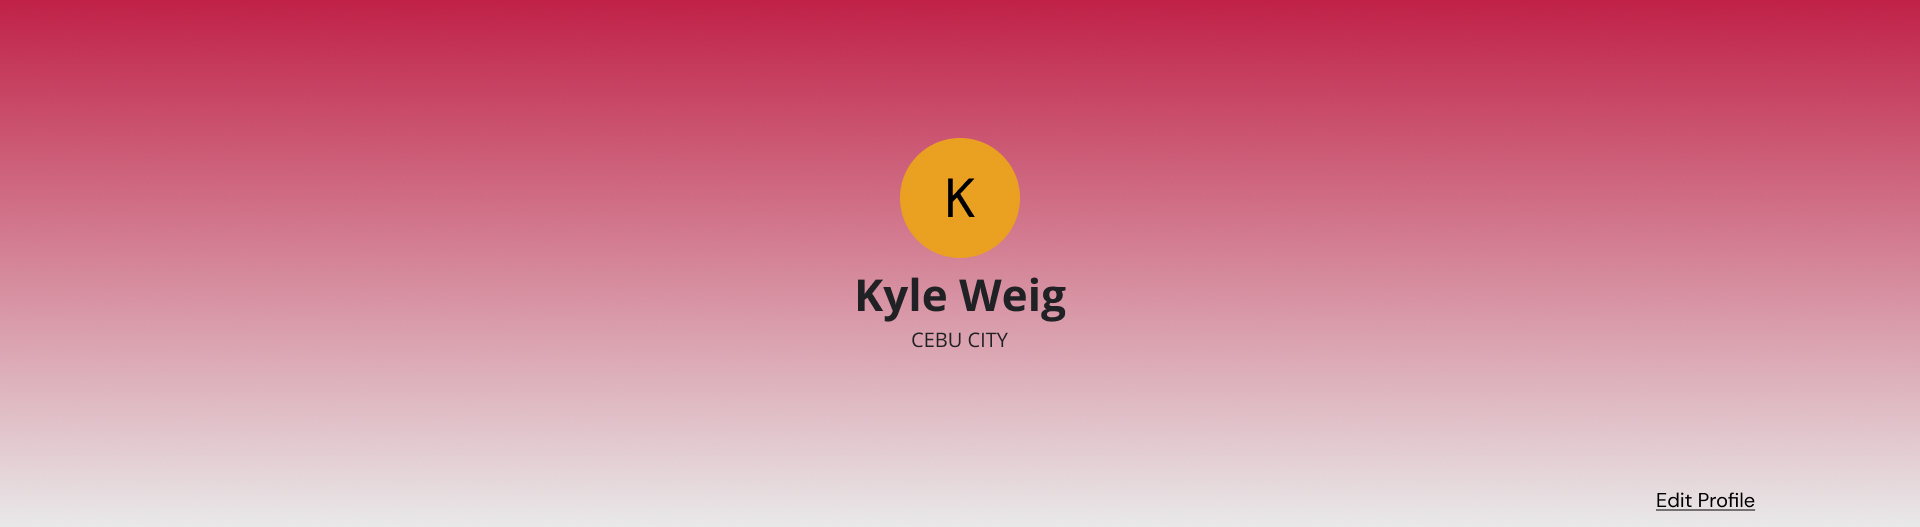
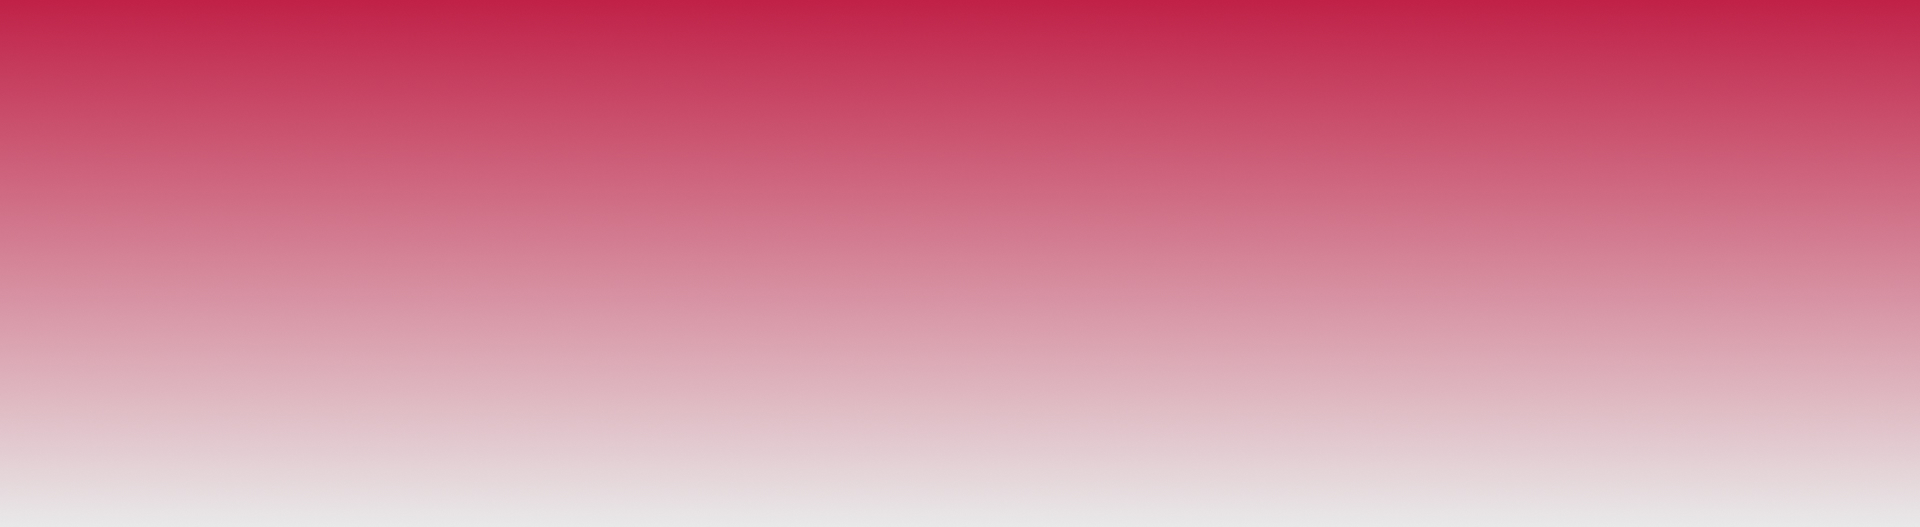
update something

diff --git a/src/User/UserProfile.js b/src/User/UserProfile.js
@@ -2,25 +2,41 @@ import React from 'react'
 import Container from '@mui/material/Container';
 import ResponsiveAppBar from '../Components/header';
 import Avatar from '@mui/material/Avatar';
+import { Button, Grid } from '@mui/material';
 
 export default function UserProfile() {
     return (
         <div>
             <ResponsiveAppBar />
             <div>
-                <img src="./img/userprofile.jpg" alt="logo" className="banner" style={{ position: "absolute" }} />
-                <div style={{display: "flex", justifyContent: "center", top}}>
-                    <Avatar alt="Kyle" src="/static/images/avatar/2.jpg"
-                        sx={{
-                            width: 120,
-                            height: 120,
-                        }}
-                    />
+                <img src="./img/userprofile.jpg" alt="logo" className="banner" style={{ position: "absolute", zIndex: -1 }} />
+                <div style={{ display: "flex", justifyContent: "center" }}>
+                    <div style={{ marginTop: "8.6rem" }}>
+                        <Avatar alt="Kyle" src="/static/images/avatar/2.jpg" sx={{ width: 120, height: 120 }} />
+                        <div>
+
+                        </div>
+
+                    </div>
+
+                </div>
+                <div style={{marginTop: "1rem", textAlign: "center", marginTop: "-1.5rem", fontFamily: "'DM Sans', sans-serif" }}>
+                    <h2 style={{ fontSize: "2.8rem" }} >Kyle Weig</h2>
+                    <p style={{ fontSize: "1.2rem", marginTop: "-1.8rem" }}>CEBU CITY</p>
+                </div>
+                <div style={{marginTop: "1rem", textAlign: "right", marginTop: "7.4rem", marginRight: "9.5rem", fontFamily: "'DM Sans', sans-serif"}}>
+                    <Button sx={{color: 'black'}}><p style={{fontSize: ".9rem"}}><u>Edit Profile</u></p></Button>
                 </div>
 
             </div>
             <Container maxWidth="lg">
-
+                <div>
+                    <p><b>First Name:</b> Kyle</p>
+                    <p><b>Middle Name:</b> Kyle</p>
+                    <p><b>Last Name:</b> Weig</p>
+                    <p><b>Department:</b> CCS</p>
+                    <p><b>First Name:</b> Kyle</p>
+                </div>
             </Container>
         </div>
     )

diff --git a/src/Components/header.js b/src/Components/header.js
@@ -14,7 +14,7 @@ import MenuItem from '@mui/material/MenuItem';
 import AdbIcon from '@mui/icons-material/Adb';
 import  './header.css';
 import { Link } from 'react-router-dom';
-import { useUser } from '../Components/UserProvider';
+import { useUser } from './UserProvider';
 
 const pages = ['Home', 'Event Categories','Upcoming Events', 'Joined Events'];
 const settings = ['Profile','Logout'];
